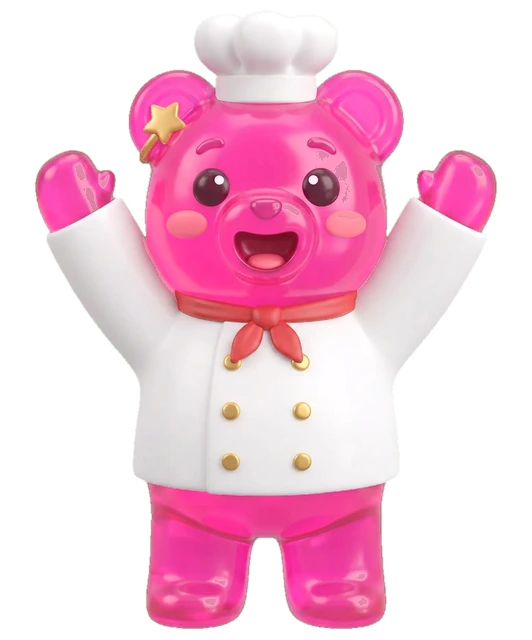
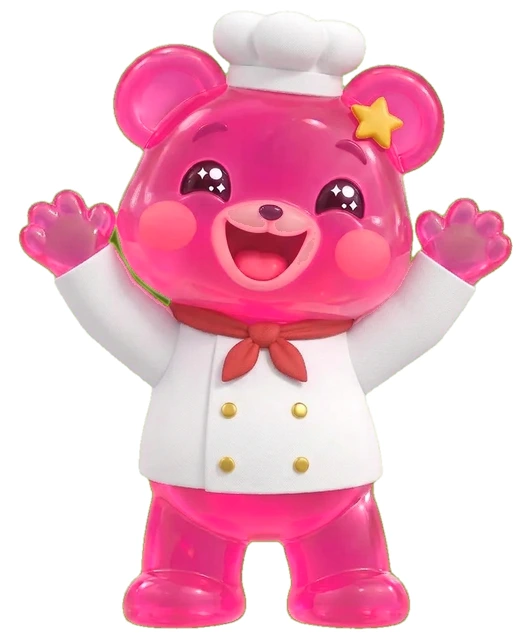
Win/jump poses regenerated with the cream muzzle face

diff --git a/sw.js b/sw.js
@@ -1,5 +1,5 @@
 /* Candoku service worker: cache the app shell so it works offline. Bump VERSION on each release. */
-const VERSION = 'candoku-v95';
+const VERSION = 'candoku-v96';
 const FILES = ['./', 'index.html', 'style.css', 'engine.js', 'hints.js', 'seeds.js', 'sound.js', 'music.js', 'voice.js', 'app.js', 'manifest.webmanifest', 'icon-192.png', 'icon-180.png', 'icon-192.png', 'icon-512.png', 'icon-maskable-512.png', 'icons/lollipop.png', 'icons/candy.png', 'icons/chocolate_bar.png', 'icons/doughnut.png', 'icons/cupcake.png', 'icons/cookie.png', 'icons/cherries.png', 'icons/soft_ice_cream.png', 'icons/shortcake.png', 'icons/dango.png', 'art/bg_0.jpg', 'art/bg_1.jpg', 'art/bg_2.jpg', 'art/bg_3.jpg', 'art/bg_4.jpg', 'art/bg_5.jpg', 'art/bg_6.jpg', 'art/bg_7.jpg', 'art/bg_8.jpg', 'art/ic_undo.webp', 'art/ic_hint.webp', 'art/ic_wand.webp', 'art/ic_maybe.webp', 'art/ic_restart.webp', 'art/ic_coin.webp', 'art/ic_chest.webp', 'art/ic_wheel.webp', 'art/ic_games.webp', 'art/nav_gifts.webp', 'art/nav_quests.webp', 'art/nav_home.webp', 'art/nav_shop.webp', 'art/nav_rank.webp', 'art/ic_heart.webp', 'art/ic_heart_off.webp', 'art/cd_lollipop.webp', 'art/cd_candy.webp', 'art/cd_chocolate_bar.webp', 'art/cd_doughnut.webp', 'art/cd_cupcake.webp', 'art/cd_cookie.webp', 'art/cd_cherries.webp', 'art/cd_soft_ice_cream.webp', 'art/cd_shortcake.webp', 'art/cd_dango.webp', 'art/tool_undo.webp', 'art/tool_hint.webp', 'art/tool_wand.webp', 'art/tool_maybe.webp', 'art/tool_maybe_green.webp', 'art/tool_restart.webp', 'art/ribbon.webp', 'art/ribbon_teal.webp', 'art/panel_blue.webp', 'art/ic_shield.webp', 'art/ic_double.webp', 'art/ic_sweeper.webp', 'art/ic_lens.webp', 'audio/voice/reward1.mp3', 'audio/voice/reward2.mp3', 'audio/voice/reward3.mp3', 'audio/voice/bigreward.mp3', 'audio/voice/wandget.mp3', 'art/gumi_pirate.webp', 'art/gumi_astronaut.webp', 'art/gumi_chef.webp', 'art/gumi_ninja.webp', 'art/btn_green.webp', 'art/btn_orange.webp', 'art/btn_blue.webp', 'art/logo.webp', 'art/ribbon_0.webp', 'art/ribbon_1.webp', 'art/ribbon_2.webp', 'art/ribbon_3.webp', 'art/ribbon_4.webp', 'art/ribbon_5.webp', 'art/ribbon_6.webp', 'art/ribbon_7.webp', 'art/ribbon_8.webp', 'art/ribbon_9.webp', 'art/gumi_win.webp', 'art/gumi_jump.webp', 'art/gumi_chef_stand.webp', 'art/gumi_chef_win.webp', 'art/gumi_fire_stand.webp', 'art/gumi_fire_win.webp', 'art/gumi_blink.webp', 'art/gumi_sad.webp', 'art/tool_restart_red.webp', 'art/wheel_ring.webp', 'art/wheel_hub.webp', 'art/wheel_pointer.webp', 'art/tool_sweeper.webp', 'art/tool_lens.webp', 'art/gumi.webp', 'art/gumi_hero.webp', 'art/star_gold.webp', 'art/star_grey.webp', 'art/gumi_blue.webp', 'art/gumi_red.webp', 'art/panel.webp', 'audio/sfx/n0.mp3', 'audio/sfx/n1.mp3', 'audio/sfx/n2.mp3', 'audio/sfx/n3.mp3', 'audio/sfx/n4.mp3', 'audio/sfx/n5.mp3', 'audio/sfx/n6.mp3', 'audio/sfx/n7.mp3', 'audio/sfx/n8.mp3', 'audio/sfx/fanfare.mp3', 'audio/sfx/stars.mp3', 'audio/music/w4.mp3', 'audio/music/w5.mp3', 'audio/music/w6.mp3', 'audio/music/w7.mp3', 'audio/music/w8.mp3', 'audio/music/menu.mp3', 'audio/music/w0.mp3', 'audio/music/w1.mp3', 'audio/music/w2.mp3', 'audio/music/w3.mp3', 'audio/voice/close.mp3', 'audio/voice/delicious.mp3', 'audio/voice/divine.mp3', 'audio/voice/first.mp3', 'audio/voice/go.mp3', 'audio/voice/hard.mp3', 'audio/voice/intro1.mp3', 'audio/voice/intro2.mp3', 'audio/voice/intro3.mp3', 'audio/voice/letsplay.mp3', 'audio/voice/lose.mp3', 'audio/voice/nice.mp3', 'audio/voice/perfect.mp3', 'audio/voice/ready.mp3', 'audio/voice/sugartastic.mp3', 'audio/voice/tasty.mp3', 'audio/voice/veryhard.mp3', 'audio/voice/extremehard.mp3', 'audio/voice/verytasty.mp3', 'audio/voice/welcome.mp3', 'audio/voice/yummy.mp3', 'audio/voice/z0.mp3', 'audio/voice/z1.mp3', 'audio/voice/z2.mp3', 'audio/voice/z3.mp3', 'audio/voice/z4.mp3', 'audio/voice/z5.mp3', 'audio/voice/z6.mp3', 'audio/voice/z7.mp3', 'audio/voice/z8.mp3'];
 self.addEventListener('install', (e) => {
   e.waitUntil(caches.open(VERSION).then((c) => c.addAll(FILES)).then(() => self.skipWaiting()));

diff --git a/index.html b/index.html
@@ -186,7 +186,7 @@
     <button class="btn" id="maybeBtn" type="button" aria-pressed="false" aria-label="Maybe" title="Maybe"><img class="tico" src="art/tool_maybe.webp" alt="" draggable="false"></button>
     <button class="btn" id="clearBtn" type="button" aria-label="Restart" title="Restart"><img class="tico" src="art/tool_restart_red.webp" alt="" draggable="false"></button>
   </div>
-  <p class="help">Tap: X (tap again to remove). Double tap: candy. Hold a square or use Maybe to mark a ? <span class="ver">v98</span></p>
+  <p class="help">Tap: X (tap again to remove). Double tap: candy. Hold a square or use Maybe to mark a ? <span class="ver">v99</span></p>
 </main>
 
 <!-- WIN -->
